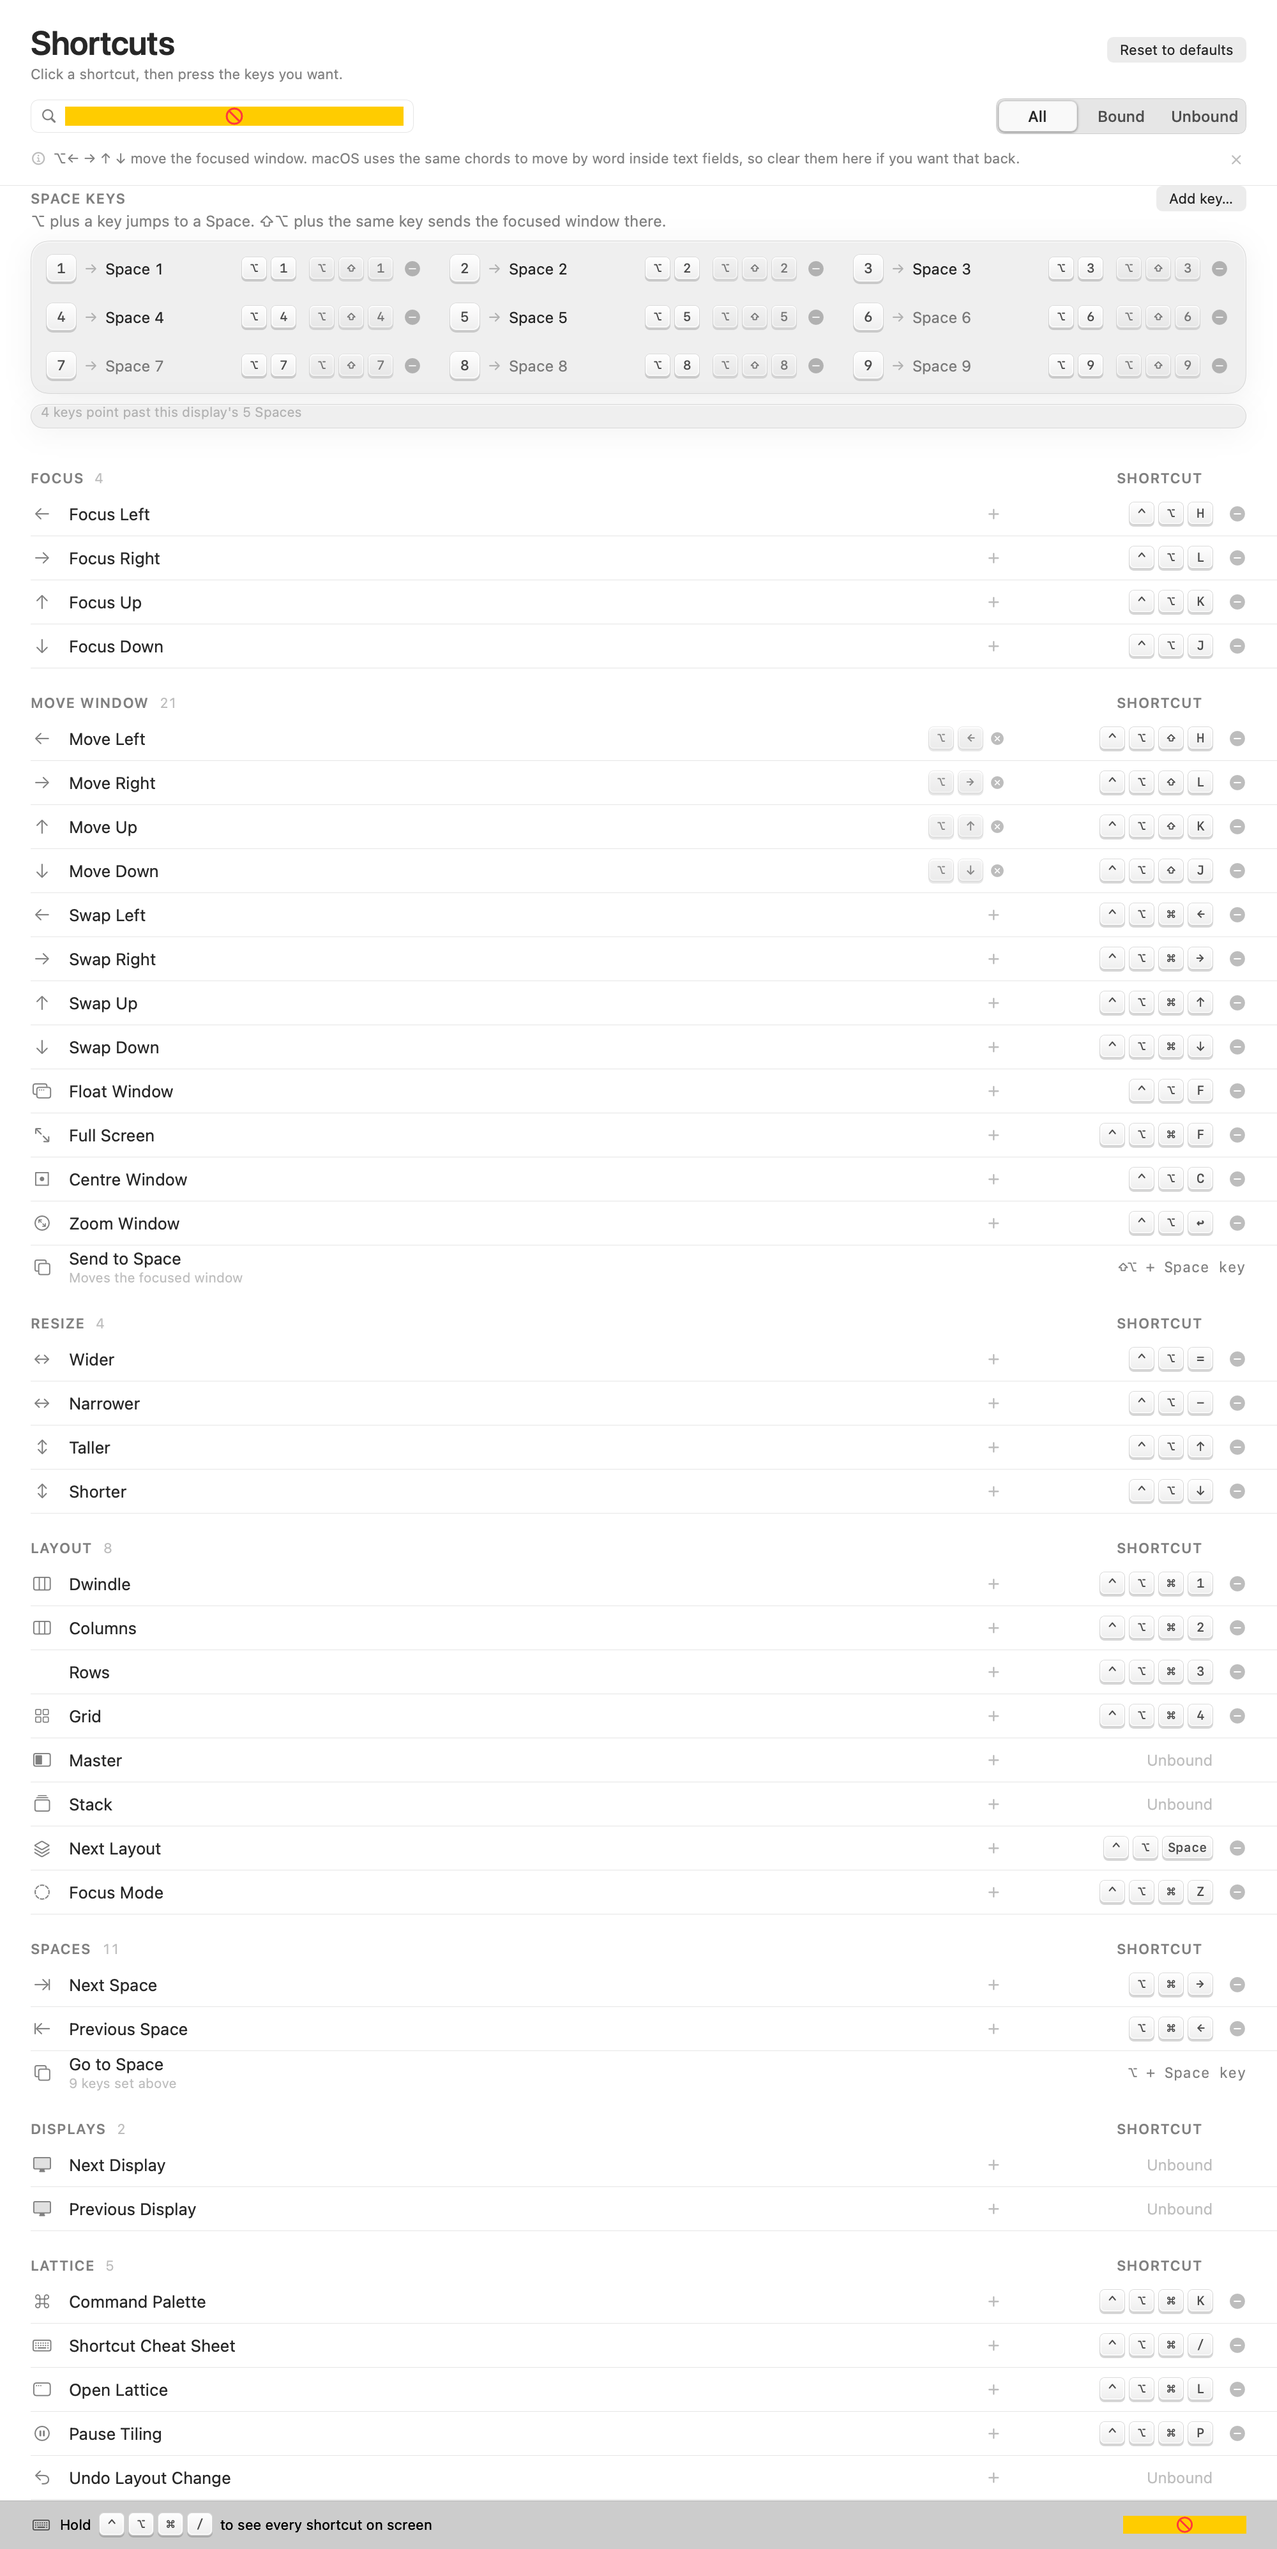
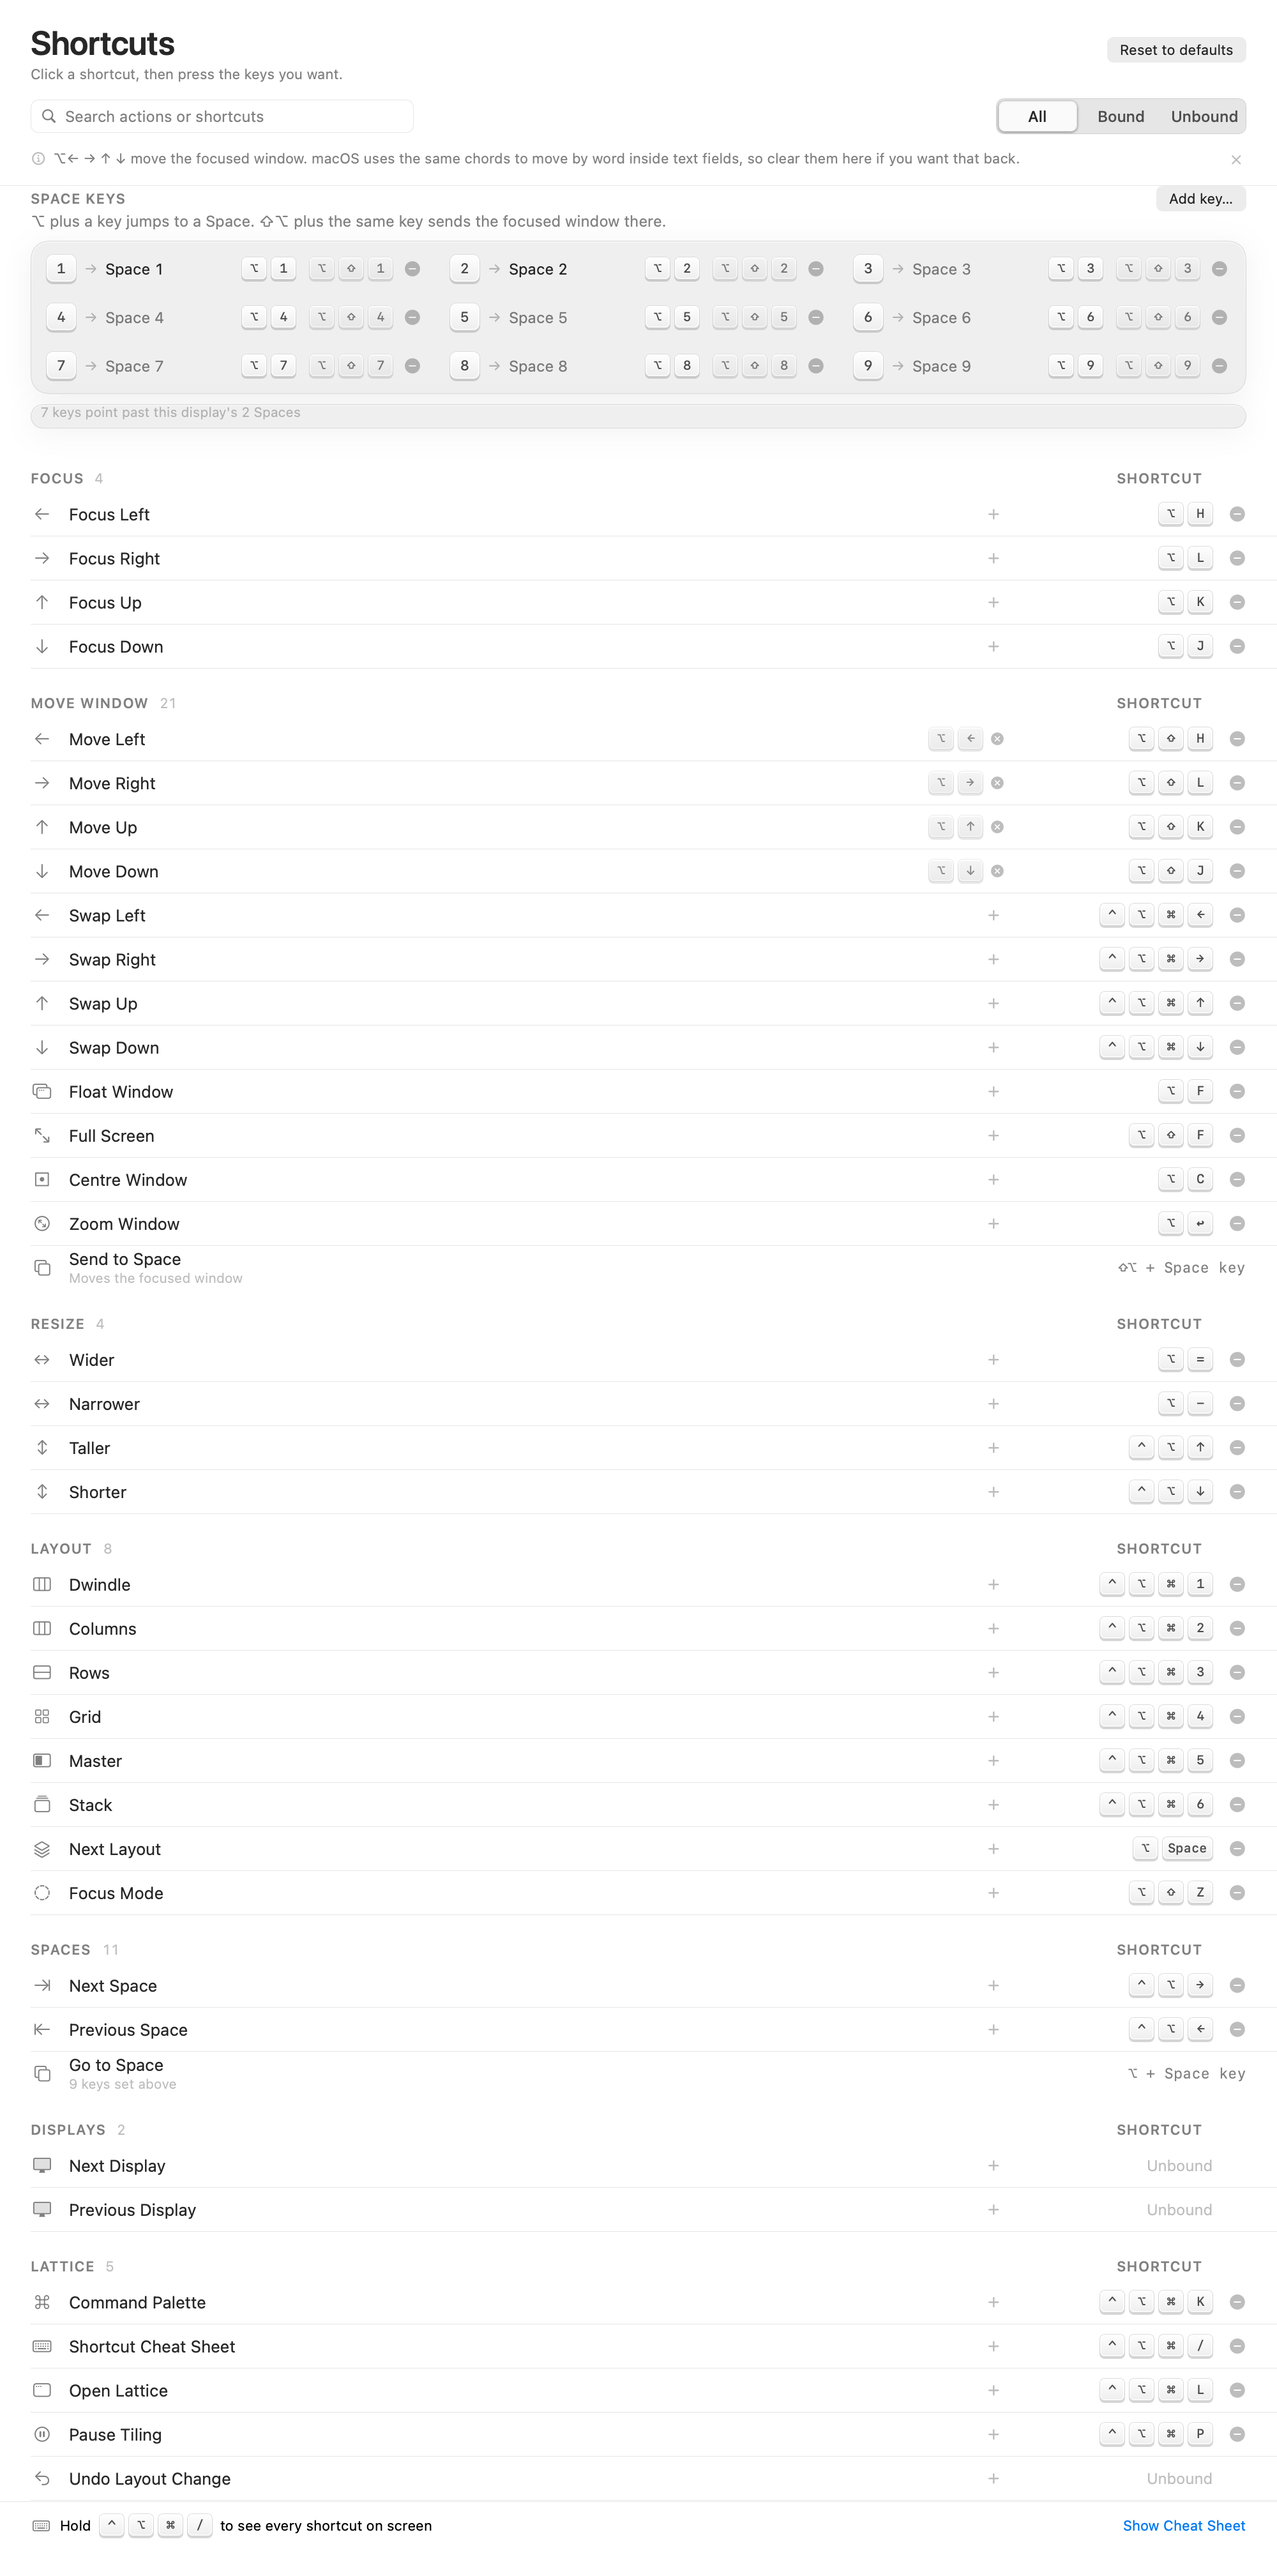
Docs and design screenshots: current IA, stable signing, new surfaces
Regenerate every page offscreen on a light canvas (the old images were
transparent, which made dark-mode labels invisible), add the menu bar list,
the palette and the cheat sheet, and record what this pass fixed.

diff --git a/docs/IA.md b/docs/IA.md
@@ -64,8 +64,29 @@ per-display/edit-a-rule never appear in the popover.
 `Turn on Lattice` → `Done`, one escape ("Continue without it"), one privacy line. Then a single
 HUD toast with the four chords worth knowing.
 
-## Missing command to add
-`moveToNextDisplay` / `moveToPreviousDisplay` — the only job with no surface at all today.
+## Missing command — shipped
+
+`moveToNextDisplay` / `moveToPreviousDisplay` exist as `Next Display` / `Previous Display`
+in Shortcuts and the palette (unbound by default; bind them if you use two screens).
+
+## Fixed in the following pass
+
+- Overview's map card now fills the page **and keeps the display's aspect ratio**, so a
+  window is never drawn wider than it is.
+- Shortcuts no longer uses `List`; the page captures offscreen and scrolls normally.
+- The Apps search field, the app-rule menu and the border colour picker are drawn controls
+  in offscreen renders (the running app still uses the real control).
+- The command palette's keyboard selection was broken: every row in a section shared the
+  first row's index, so the whole list highlighted and Return ran the wrong command.
+- The palette's list no longer uses `LazyVStack` inside its non-activating panel, which
+  rendered only the first row of each section.
+- A Space that cannot hold every window at its apps' minimum sizes is left untouched with
+  a **Space full** note, instead of being squeezed into a wall of overlapping columns.
+- Each app's real minimum size is remembered across launches.
+- The window border overlay never came on screen; new rings were never ordered front.
+- Focus with the arrow keys no longer dies one step after each successful switch.
+- Drag-to-snap now lands exactly on the tiled half (it was inset by the gap twice).
+
 
 
 ---
@@ -85,9 +106,11 @@ HUD toast with the four chords worth knowing.
 - AppKit switches/sliders/segmented pickers replaced with drawn equivalents so the UI is
   consistent and capturable.
 
-## Known rough edges (next pass)
+## Known rough edges
 
-- Overview's map card does not stretch to the page width.
-- Shortcuts still uses `List`; it is the one page that cannot be captured offscreen yet.
-- The Apps search field and the border colour row are the last AppKit-backed controls, so they
-  appear as placeholders in the offscreen renders (they are correct in the running app).
+- Overview's map is a true-geometry diagram; when windows genuinely overlap (tiling
+  paused, or a Space that is too crowded), the tiles overlap on the map too. That is the
+  honest picture, not a layout bug.
+- A Space that cannot be tiled is left alone and says so. A future pass could pack the
+  windows that do fit and float the rest; leaving it untouched is the safe default today.
+

diff --git a/docs/VERIFY.md b/docs/VERIFY.md
@@ -5,15 +5,15 @@ failure is cheap to attribute.
 
 ## 0. Grant Accessibility (once, ever)
 
-`./scripts/bundle.sh release` signs with your Apple Development certificate, so the
-designated requirement is
+Run `./scripts/make-signing-identity.sh` first. On a new Mac it prints one
+`add-trusted-cert` command; run it, then `./scripts/bundle.sh release`. The signature is
+now stable, so the Accessibility grant below survives future rebuilds — that is the whole
+point of the identity.
 
-```
-identifier "com.shashvat.lattice" and anchor apple generic and certificate leaf[CN] = "Apple Development: …"
-```
-
-That is stable across rebuilds — unlike ad-hoc signing, which macOS pins to a binary hash
-and therefore forgets on every build. Grant once:
+`./scripts/bundle.sh release` signs with your Apple Development certificate when one is
+installed (designated requirement `identifier "com.shashvat.lattice" and anchor apple
+generic and certificate leaf[CN] = "Apple Development: …"`), and otherwise with the local
+"Lattice Dev Signing" identity (`identifier … and certificate root = H"…"`).
 
 1. Launch `build/Lattice.app`.
 2. Onboarding ▸ Permission ▸ **Request Access**, or System Settings ▸ Privacy & Security ▸
@@ -41,6 +41,11 @@ all while apps are visibly open (AX trust, or an app with `activationPolicy != .
 3. ⌃⌥⌘1–4 should re-layout the Space; the windows animate, not jump.
 4. Switch to another Space and back: the layout and proportions must be remembered per
    Space, and the other Space's windows must be untouched.
+5. Open more windows than the display can hold at their minimum sizes. The Space must not
+   be rearranged into overlapping columns: Overview shows **Space full** and the windows
+   stay exactly where they were. Close one and tiling resumes.
+6. Settings ▸ Window border ▸ on. The focused window gets a ring in the chosen colour,
+   and it follows focus without covering the window's own controls.
 
 ## 3. Snap preview
 
@@ -58,8 +63,9 @@ or `nativeDrag` for a third-party app, followed by a Space change if
 ## 5. Shortcuts
 
 Press ⌃⌥⌘K (palette) and ⌃⌥⌘/ (cheat sheet). Both must open over a full-screen app without
-stealing the Space. Rebind one chord in Settings ▸ Shortcuts and confirm the old chord
-stops working and the new one starts.
+stealing the Space. In the palette, exactly one row is highlighted; type `columns` and
+press Return — the layout changes and the palette closes. Rebind one chord in Settings ▸
+Shortcuts and confirm the old chord stops working and the new one starts.
 
 ## 6. Undo and pause
 
